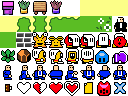
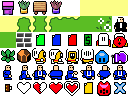
Update coin sprite to index 21 and change coin count color to green

Changed region(s): [[0.25, 0.3125, 0.8438, 0.5312], [0.8438, 0.5625, 0.9062, 0.5938]]

diff --git a/npcs.js b/npcs.js
@@ -89,7 +89,7 @@ function LoadNPCSprites(callback)
 // Generate unique surnames for NPCs
 function GenerateNPCSurnames()
 {
-    let surnames = ['Smith', 'Johnson', 'Williams', 'Brown', 'Jones', 'Miller', 'Davis', 'Wilson', 'Anderson', 'Thomas', 'Taylor', 'Moore', 'Jackson', 'Martin', 'Lee', 'Thompson', 'White', 'Harris', 'Clark', 'Lewis', 'Robinson', 'Walker', 'Young', 'Allen', 'King', 'Wright', 'Scott', 'Hill', 'Green', 'Adams', 'Nelson', 'Baker', 'Hall', 'Campbell', 'Mitchell', 'Carter', 'Roberts', 'Phillips', 'Evans', 'Turner', 'Parker', 'Edwards', 'Collins', 'Stewart', 'Morris', 'Murphy', 'Cook', 'Rogers', 'Morgan', 'Cooper', 'Peterson', 'Bailey', 'Reed', 'Kelly', 'Howard', 'Cox', 'Ward', 'Richardson', 'Watson', 'Brooks', 'Wood', 'James', 'Bennett', 'Gray', 'Hughes', 'Price', 'Sanders', 'Myers', 'Long', 'Ross', 'Foster', 'Schmidt', 'Mueller', 'Weber', 'Fischer', 'Wagner', 'Becker', 'Schneider', 'Koch', 'Bauer', 'Richter', 'Klein', 'Wolf', 'Schroeder', 'Hoffman', 'Schaefer', 'Keller', 'Lange', 'Werner', 'Krause', 'Meier', 'Lehmann', 'Rossi', 'Romano', 'Ferrari', 'Esposito', 'Ricci', 'Marino', 'Greco', 'Bruno', 'Gallo', 'Costa', 'Fontana', 'Caruso', 'Mancini', 'Rizzo', 'Lombardi', 'Moretti', 'bin laden', 'dogface', 'the realest', 'big ounce', 'el wiz', 'fuquer'];
+    let surnames = ['Smith', 'Johnson', 'Williams', 'Brown', 'Jones', 'Miller', 'Davis', 'Wilson', 'Anderson', 'Thomas', 'Taylor', 'Moore', 'Jackson', 'Martin', 'Lee', 'Thompson', 'White', 'Harris', 'Clark', 'Lewis', 'Robinson', 'Walker', 'Young', 'Allen', 'King', 'Wright', 'Scott', 'Hill', 'Green', 'Adams', 'Nelson', 'Baker', 'Hall', 'Campbell', 'Mitchell', 'Carter', 'Roberts', 'Phillips', 'Evans', 'Turner', 'Parker', 'Edwards', 'Collins', 'Stewart', 'Morris', 'Murphy', 'Cook', 'Rogers', 'Morgan', 'Cooper', 'Peterson', 'Bailey', 'Reed', 'Kelly', 'Howard', 'Cox', 'Ward', 'Richardson', 'Watson', 'Brooks', 'Wood', 'James', 'Bennett', 'Gray', 'Hughes', 'Price', 'Sanders', 'Myers', 'Long', 'Ross', 'Foster', 'Schmidt', 'Mueller', 'Weber', 'Fischer', 'Wagner', 'Becker', 'Schneider', 'Koch', 'Bauer', 'Richter', 'Klein', 'Wolf', 'Schroeder', 'Hoffman', 'Schaefer', 'Keller', 'Lange', 'Werner', 'Krause', 'Meier', 'Lehmann', 'Rossi', 'Romano', 'Ferrari', 'Esposito', 'Ricci', 'Marino', 'Greco', 'Bruno', 'Gallo', 'Costa', 'Fontana', 'Caruso', 'Mancini', 'Rizzo', 'Lombardi', 'Moretti', 'bin laden', 'dogface', 'the realest', 'big ounce', 'el wiz', 'fuquer', 'shekelstein', 'kycowitz', 'shit for brains', 'amanda', 'jason', 'josh', 'peter', 'paul', 'emily', 'epstein', 'cosby', 'slim fatty', 'g wigga', 'slim beans', 'slim phony', 'Garcia', 'Martinez', 'Rodriguez', 'Lopez', 'Gonzalez', 'Hernandez', 'Sanchez', 'Ramirez', 'Torres', 'Flores'];
     
     // Shuffle and return
     for(let i = surnames.length - 1; i > 0; i--)

diff --git a/game.js b/game.js
@@ -896,16 +896,20 @@ function PostRender()
         mainCanvasContext.lineWidth = 1;
         mainCanvasContext.strokeRect(coinDisplayX - coinDisplayWidth/2, coinDisplayY - coinDisplayHeight/2, coinDisplayWidth, coinDisplayHeight);
         
-        // Draw coin icon (tileX=5, tileY=5 from tileImage)
+        // Draw coin icon (sprite index 21: tileX=5, tileY=2 from tileImage)
         if (tileImage && tileImage.complete)
         {
             let iconSize = 16;
             let iconX = coinDisplayX - coinDisplayWidth/2 + 4;
             let iconY = coinDisplayY - iconSize/2;
             
+            // Sprite index 21: tileX = 21 % 8 = 5, tileY = Math.floor(21 / 8) = 2
+            let coinTileX = 21 % 8; // 5
+            let coinTileY = Math.floor(21 / 8); // 2
+            
             mainCanvasContext.drawImage(
                 tileImage,
-                5 * tileSize, 5 * tileSize, // source coordinates (tileX=5, tileY=5)
+                coinTileX * tileSize, coinTileY * tileSize,
                 tileSize, tileSize,
                 iconX, iconY,
                 iconSize, iconSize
@@ -915,7 +919,7 @@ function PostRender()
         // Draw coin count (positioned after icon with padding)
         let coinCount = playerData ? playerData.coins : 0;
         let textX = coinDisplayX - coinDisplayWidth/2 + 24; // 4px padding after 16px icon
-        DrawText(coinCount.toString(), textX, coinDisplayY, 12, 'left', 1, '#FFD700', '#000');
+        DrawText(coinCount.toString(), textX, coinDisplayY, 12, 'left', 1, '#4F4', '#000');
     }
     
     // Reset button (top-right)
@@ -1719,16 +1723,20 @@ class Pickup extends MyGameObject
             // 1 coin
             PlaySound(10);
             ++playerData.coins;
-            // Add to inventory (stack coins)
-            playerData.AddToInventory('coin', 'Coin', 5, 5, 1);
+            // Add to inventory (stack coins) - sprite index 21: tileX=5, tileY=2
+            let coinTileX = 21 % 8; // 5
+            let coinTileY = Math.floor(21 / 8); // 2
+            playerData.AddToInventory('coin', 'Coin', coinTileX, coinTileY, 1);
         }
         else if (this.type==4)
         {
             // 5 coin
             PlaySound(10);
             playerData.coins+=5;
-            // Add to inventory (stack coins)
-            playerData.AddToInventory('coin', 'Coin', 5, 5, 5);
+            // Add to inventory (stack coins) - sprite index 21: tileX=5, tileY=2
+            let coinTileX = 21 % 8; // 5
+            let coinTileY = Math.floor(21 / 8); // 2
+            playerData.AddToInventory('coin', 'Coin', coinTileX, coinTileY, 5);
         }
         else
         {
